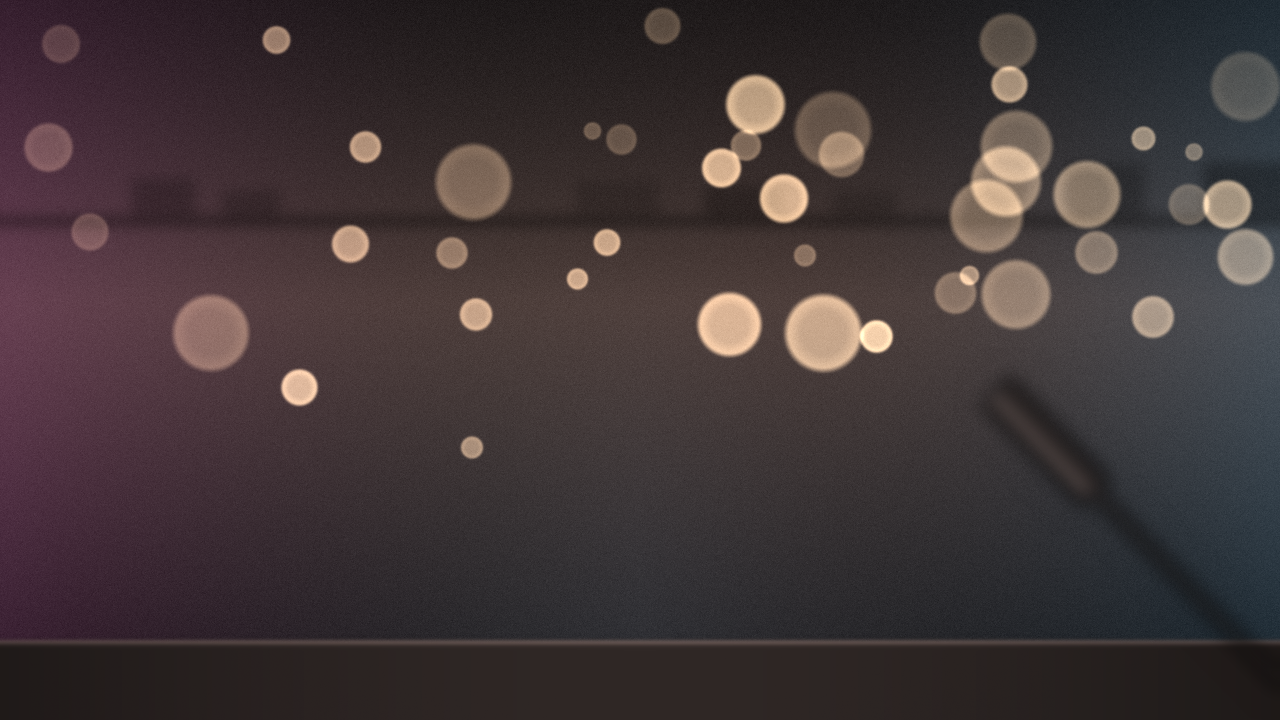
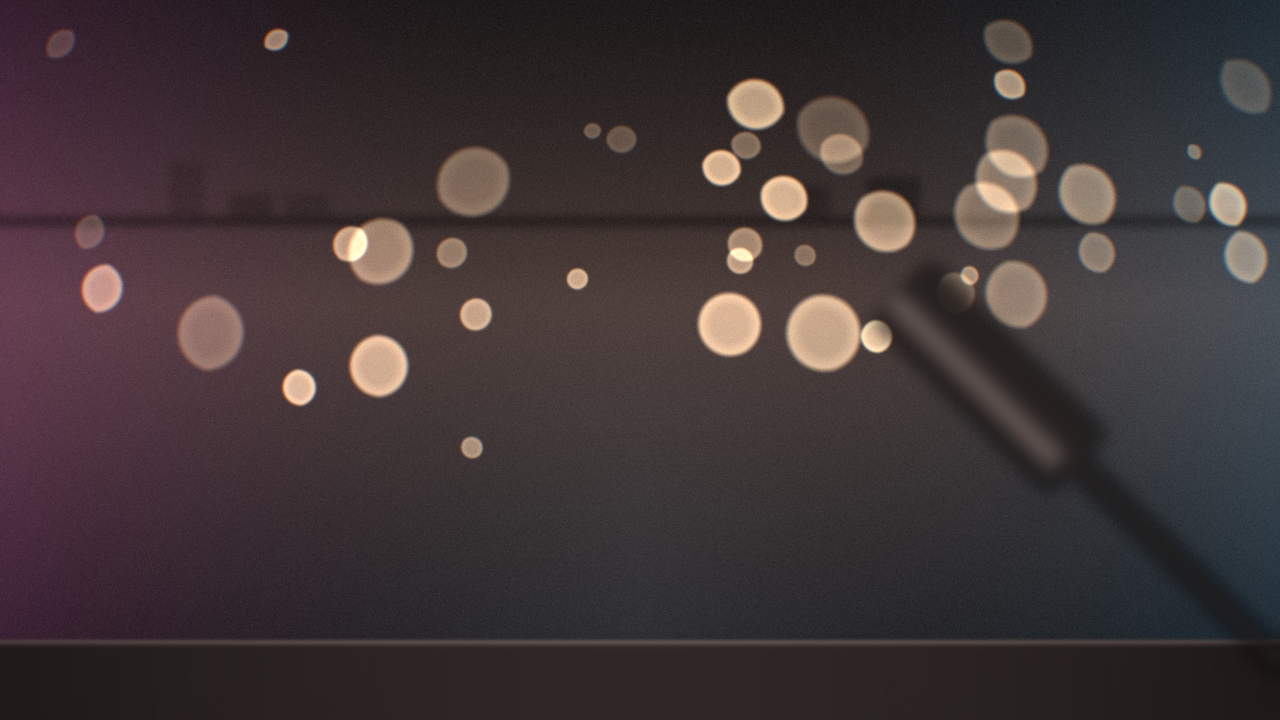
Anon: 2 files (2 modified)

diff --git a/Anon/src/presenter/render/environment.py b/Anon/src/presenter/render/environment.py
@@ -458,16 +458,16 @@ def render_mic_foreground(
     # with the capsule ending short of centre frame.
     sign = 1.0 if style.mic_side == "right" else -1.0
     cx = w * (0.86 if sign > 0 else 0.14)
-    base = (int(cx + sign * w * 0.18), int(h * 1.02))
-    tip = (int(cx - sign * w * 0.05), int(h * 0.60))
+    base = (int(cx + sign * w * 0.22), int(h * 1.06))
+    tip = (int(cx - sign * w * 0.10), int(h * 0.50))
 
-    arm_w = max(int(short * 0.016 * style.mic_scale), 3)
+    arm_w = max(int(short * 0.030 * style.mic_scale), 5)
     for canvas, colour in ((layer, style.mic_color), (alpha, 1.0)):
         cv2.line(canvas, base, tip, colour, arm_w)
 
     # Shock mount ring and capsule body.
-    body_len = int(h * 0.20 * style.mic_scale)
-    body_w = max(int(short * 0.055 * style.mic_scale), 8)
+    body_len = int(h * 0.34 * style.mic_scale)
+    body_w = max(int(short * 0.115 * style.mic_scale), 14)
     ang = math.atan2(tip[1] - base[1], tip[0] - base[0])
     bx = int(tip[0] - math.cos(ang) * body_len * 0.1)
     by = int(tip[1] - math.sin(ang) * body_len * 0.1)
